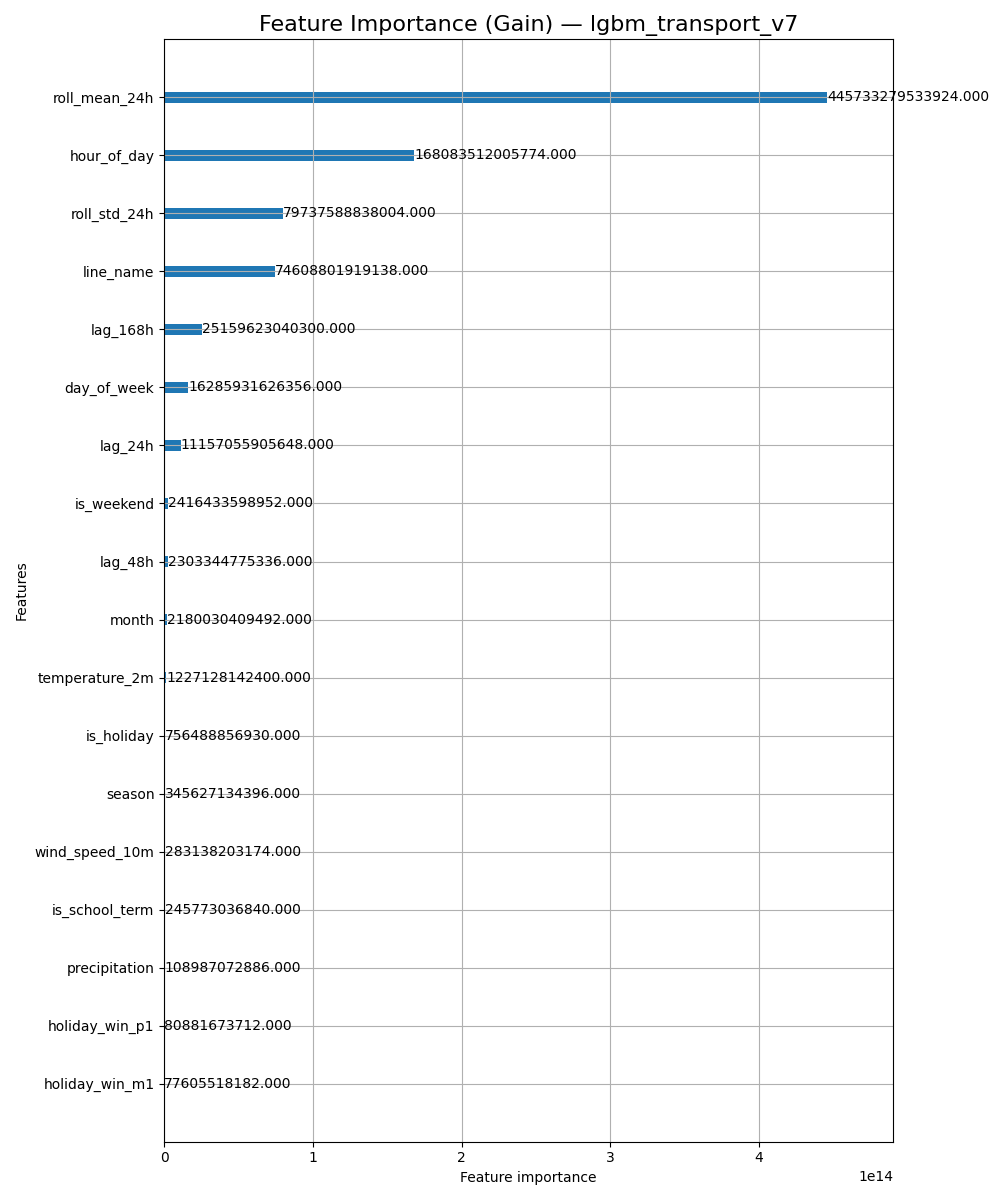
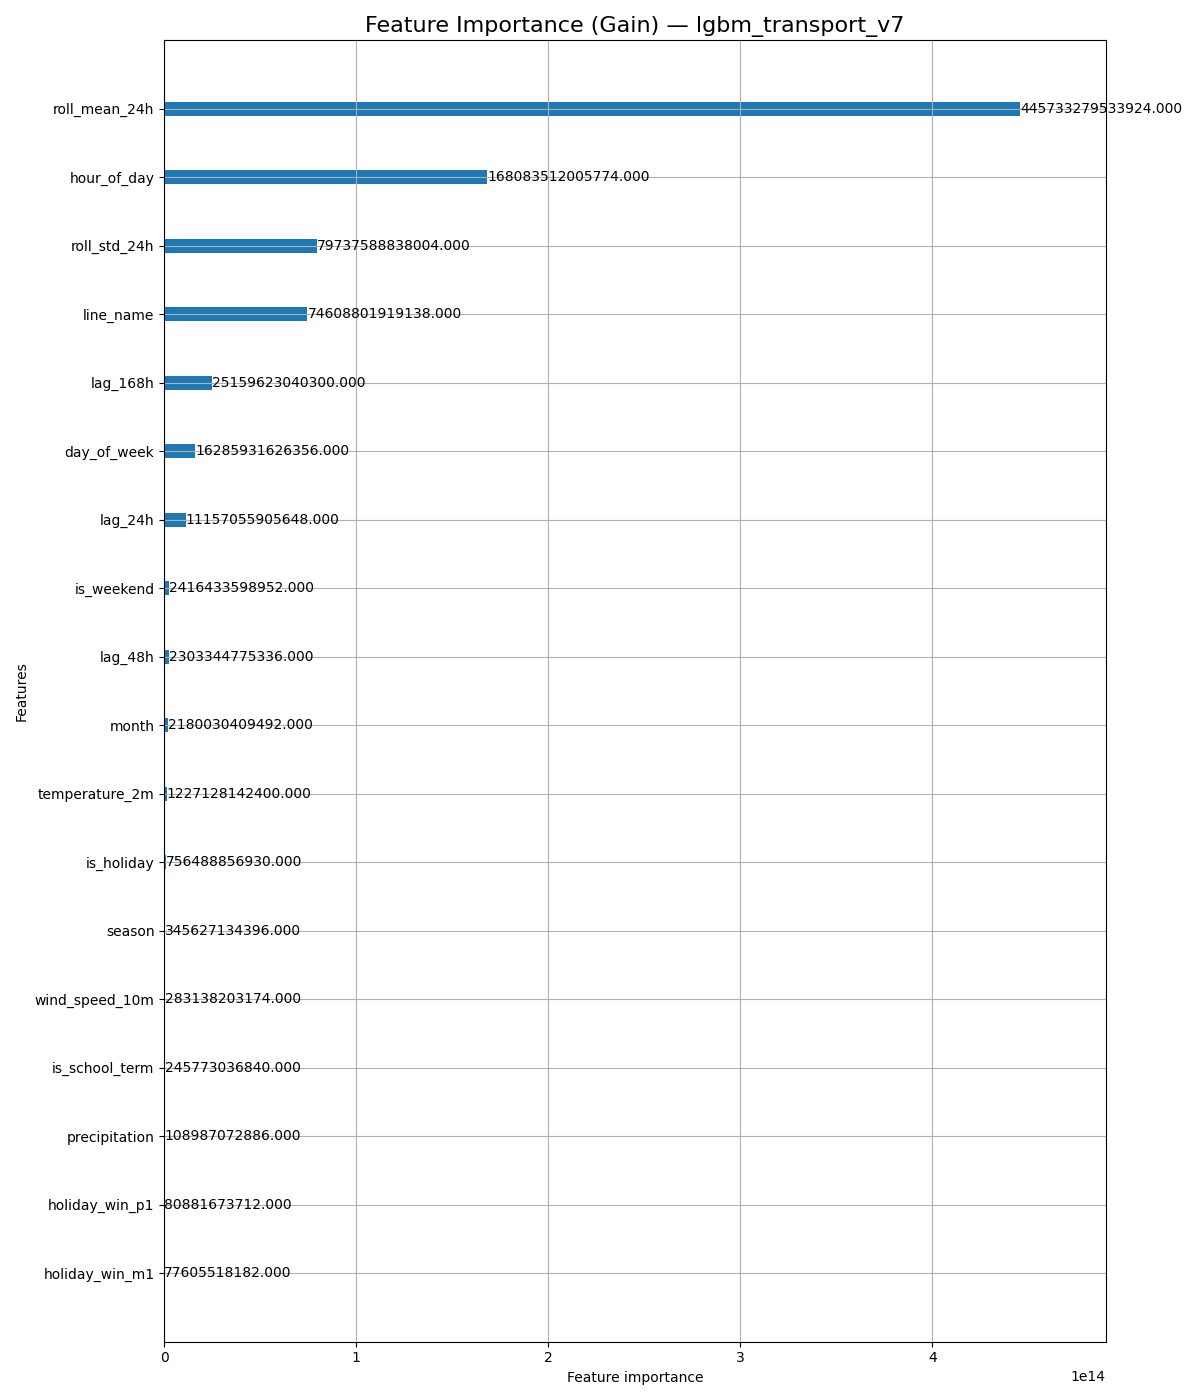
updated model evaluation plots

diff --git a/src/model/eval_model.py b/src/model/eval_model.py
@@ -143,10 +143,12 @@ def load_datasets():
 
 
 def generate_feature_importance(model, model_name, X_val):
-    """Generates and saves a feature importance plot and CSV."""
+    """Generates and saves feature importance plots and CSVs."""
     print(f"  -> Generating feature importance for {model_name}...")
     csv_path = REPORT_DIR / f"feature_importance_{model_name}.csv"
     fig_path = FIG_DIR / f"feature_importance_{model_name}.png"
+    topk_path = FIG_DIR / f"feature_importance_{model_name}_top5.png"
+    tail_path = FIG_DIR / f"feature_importance_{model_name}_after_top5.png"
 
     importance = model.feature_importance(importance_type="gain")
     imp_df = pd.DataFrame(
@@ -154,20 +156,73 @@ def generate_feature_importance(model, model_name, X_val):
     ).sort_values("importance", ascending=False)
     imp_df.to_csv(csv_path, index=False)
 
-    plt.figure(figsize=(10, 12))
-    lgb.plot_importance(model, max_num_features=25, importance_type="gain", figsize=(10, 12))
+    plt.figure(figsize=(12, 14))
+    lgb.plot_importance(model, max_num_features=25, importance_type="gain", figsize=(12, 14))
     plt.title(f"Feature Importance (Gain) — {model_name}", fontsize=16)
     plt.tight_layout()
     plt.savefig(fig_path)
     plt.close()
 
-    return csv_path, fig_path
+    # Top-K and long-tail plots for better readability
+    top_k = 5
+    imp_top = imp_df.head(top_k)
+    imp_tail = imp_df.iloc[top_k:]
+
+    plt.figure(figsize=(10, 8))
+    top_vals = imp_top["importance"][::-1].values
+    top_feats = imp_top["feature"][::-1].values
+    bars = plt.barh(top_feats, top_vals)
+    top_max = float(top_vals.max()) if len(top_vals) else 0.0
+    plt.xlim(0, top_max * 1.1 if top_max > 0 else 1.0)
+    plt.title(
+        f"Top {top_k} Feature Importance (Gain) — {model_name} (max={top_max:.5f})",
+        fontsize=14,
+    )
+    for bar, val in zip(bars, top_vals):
+        plt.text(
+            bar.get_width(),
+            bar.get_y() + bar.get_height() / 2,
+            f"{val:.5f}",
+            va="center",
+            ha="left",
+            fontsize=9,
+        )
+    plt.tight_layout()
+    plt.savefig(topk_path)
+    plt.close()
+
+    plt.figure(figsize=(10, 8))
+    tail_vals = imp_tail["importance"][::-1].values
+    tail_feats = imp_tail["feature"][::-1].values
+    bars = plt.barh(tail_feats, tail_vals)
+    tail_max = float(tail_vals.max()) if len(tail_vals) else 0.0
+    plt.xlim(0, tail_max * 1.1 if tail_max > 0 else 1.0)
+    plt.title(
+        f"After Top {top_k} Feature Importance (Gain) — {model_name} (max={tail_max:.5f})",
+        fontsize=14,
+    )
+    for bar, val in zip(bars, tail_vals):
+        plt.text(
+            bar.get_width(),
+            bar.get_y() + bar.get_height() / 2,
+            f"{val:.5f}",
+            va="center",
+            ha="left",
+            fontsize=9,
+        )
+    plt.tight_layout()
+    plt.savefig(tail_path)
+    plt.close()
+
+    return csv_path, fig_path, topk_path, tail_path
 
 
 def generate_shap(model, model_name, X_val):
-    """Generates and saves a SHAP summary plot."""
+    """Generates and saves SHAP summary plots (top-K and long-tail)."""
     print(f"  -> Generating SHAP summary plot for {model_name}...")
     shap_path = FIG_DIR / f"shap_summary_{model_name}.png"
+    shap_topk_path = FIG_DIR / f"shap_summary_{model_name}_top5.png"
+    shap_tail_path = FIG_DIR / f"shap_summary_{model_name}_after_top5.png"
 
     # SHAP can be slow, so we use a sample of the data
     sample_size = min(5000, len(X_val))
@@ -176,13 +231,52 @@ def generate_shap(model, model_name, X_val):
     explainer = shap.TreeExplainer(model)
     shap_values = explainer.shap_values(sample_X)
 
-    plt.figure()
+    plt.figure(figsize=(12, 12))
     shap.summary_plot(shap_values, sample_X, max_display=25, show=False)
+    ax = plt.gca()
+    xmin, xmax = ax.get_xlim()
+    tick_start = int(np.floor(xmin / 2500.0) * 2500)
+    tick_end = int(np.ceil(xmax / 2500.0) * 2500)
+    ax.set_xticks(np.arange(tick_start, tick_end + 1, 2500))
     plt.tight_layout()
     plt.savefig(shap_path)
     plt.close()
 
-    return shap_path
+    # Top-K beeswarm for clear directionality
+    top_k = 5
+    plt.figure(figsize=(12, 10))
+    shap.summary_plot(shap_values, sample_X, max_display=top_k, show=False)
+    ax = plt.gca()
+    xmin, xmax = ax.get_xlim()
+    tick_start = int(np.floor(xmin / 5000.0) * 5000)
+    tick_end = int(np.ceil(xmax / 5000.0) * 5000)
+    ax.set_xticks(np.arange(tick_start, tick_end + 1, 5000))
+    plt.tight_layout()
+    plt.savefig(shap_topk_path)
+    plt.close()
+
+    # After top-K beeswarm: drop top-K features and tighten x-limits by quantile
+    mean_abs = np.abs(shap_values).mean(axis=0)
+    top_idx = np.argsort(mean_abs)[::-1][:top_k]
+    keep_idx = [i for i in range(sample_X.shape[1]) if i not in set(top_idx)]
+    if keep_idx:
+        shap_tail = shap_values[:, keep_idx]
+        X_tail = sample_X.iloc[:, keep_idx]
+        q_low, q_high = np.quantile(shap_tail, [0.01, 0.99])
+        plt.figure(figsize=(12, 10))
+        shap.summary_plot(shap_tail, X_tail, max_display=min(25, X_tail.shape[1]), show=False)
+        ax = plt.gca()
+        ax.set_xlim(float(q_low), float(q_high))
+        tick_start = int(np.floor(q_low / 500.0) * 500)
+        tick_end = int(np.ceil(q_high / 500.0) * 500)
+        ax.set_xticks(np.arange(tick_start, tick_end + 1, 500))
+        plt.tight_layout()
+        plt.savefig(shap_tail_path)
+        plt.close()
+    else:
+        shap_tail_path = None
+
+    return shap_path, shap_topk_path, shap_tail_path
 
 
 # ==============================================================================
@@ -272,12 +366,17 @@ def evaluate_model(model_name, model, train_df, val_df, cfg):
     metrics["improvement_over_linehour"] = improvement(base_mae_linehour, metrics["mae"])
 
     # --- 5. Generate and Save Artifacts ---
-    fi_csv, fi_plot = generate_feature_importance(model, model_name, X_val)
-    shap_plot = generate_shap(model, model_name, X_val)
+    fi_csv, fi_plot, fi_topk, fi_tail = generate_feature_importance(model, model_name, X_val)
+    shap_plot, shap_topk, shap_tail = generate_shap(model, model_name, X_val)
 
     metrics["feature_importance_csv"] = str(fi_csv)
     metrics["feature_importance_plot"] = str(fi_plot)
+    metrics["feature_importance_top5_plot"] = str(fi_topk)
+    metrics["feature_importance_after_top5_plot"] = str(fi_tail)
     metrics["shap_plot"] = str(shap_plot)
+    metrics["shap_top5_plot"] = str(shap_topk)
+    if shap_tail is not None:
+        metrics["shap_after_top5_plot"] = str(shap_tail)
 
     # Save the detailed metrics for this model
     metrics_json_path = REPORT_DIR / f"metrics_{model_name}.json"

diff --git a/src/model/test_model.py b/src/model/test_model.py
@@ -43,6 +43,16 @@ def smape(y_true, y_pred):
     denominator = (np.abs(y_true) + np.abs(y_pred)) / 2.0
     return float(np.mean(numerator / (denominator + 1e-8)))
 
+def mape(y_true, y_pred):
+    """Calculates Mean Absolute Percentage Error, excluding zero targets."""
+    y_true = np.asarray(y_true)
+    y_pred = np.asarray(y_pred)
+    mask = y_true != 0
+    if not np.any(mask):
+        return np.nan, 0
+    pct_errors = np.abs((y_true[mask] - y_pred[mask]) / y_true[mask])
+    return float(np.mean(pct_errors)), int(mask.sum())
+
 def improvement(base, model):
     """Calculates the percentage improvement of a model over a baseline."""
     if base == 0:
@@ -135,6 +145,7 @@ def main(version: str):
     nmae_value = mae_value / y_test_mean if y_test_mean > 0 else np.nan
     accuracy_value = 1.0 - nmae_value if not np.isnan(nmae_value) else np.nan
     
+    mape_value, mape_count = mape(y_test, y_pred)
     report = {
         "model_name": model_name,
         "dataset": "Unseen Test Set",
@@ -144,6 +155,9 @@ def main(version: str):
         "mae": mae_value,
         "rmse": rmse(y_test, y_pred),
         "smape": smape(y_test, y_pred),
+        "mape": mape_value,
+        "mape_samples": mape_count,
+        "mape_coverage_pct": float(mape_count / len(y_test) * 100) if len(y_test) else 0.0,
         "nmae": nmae_value,
         "volume_weighted_accuracy": accuracy_value,
         "test_set_mean_volume": y_test_mean,
@@ -526,6 +540,7 @@ def main(version: str):
     print(f"  MAE: {report['mae']:.2f}")
     print(f"  RMSE: {report['rmse']:.2f}")
     print(f"  SMAPE: {report['smape']:.4f}")
+    print(f"  MAPE: {report['mape']:.4f} (coverage {report['mape_coverage_pct']:.2f}%)")
     print(f"  NMAE (Normalized MAE): {report['nmae']:.4f} ({report['nmae']*100:.2f}%)")
     print(f"  Volume-Weighted Accuracy: {report['volume_weighted_accuracy']:.4f} ({report['volume_weighted_accuracy']*100:.2f}%)")
     print(f"\n  Baseline Comparison:")
@@ -674,6 +689,16 @@ A percentage-based metric that normalizes errors symmetrically. Can appear high 
 
 * **Context:**  
   While the SMAPE ({report['smape']*100:.1f}%) might look high due to low-volume night hours, the Volume-Weighted Accuracy ({report['volume_weighted_accuracy']*100:.1f}%) confirms the system is reliable for high-capacity planning.
+
+### MAPE (Mean Absolute Percentage Error)
+**What is it?**  
+Per-sample percentage error, excluding zero-demand samples.
+
+* **Our Model's Result:**  
+  **{report['mape']*100:.1f}%** (Coverage: {report['mape_coverage_pct']:.1f}% of samples)
+
+* **Comparison with NMAE:**  
+  NMAE uses the global mean as the scale, while MAPE scales each sample by its own true value, which can inflate errors during low-volume hours.
 
 ---
 

diff --git a/reports/test_explanation_lgbm_transport_v7.md b/reports/test_explanation_lgbm_transport_v7.md
@@ -1,6 +1,6 @@
 # 📊 Model Performance & Methodology Report
 **Model Version:** lgbm_transport_v7  
-**Date:** 2026-01-11 22:13:40
+**Date:** 2026-01-12 00:26:55
 
 ---
 
@@ -13,7 +13,7 @@ This means that relative to the total passenger volume, our average error margin
 - **Model Complexity:** 2000 trees, 18 features
 - **Improvement over Lag-24h Baseline:** 76.1% better than naive lag-24h approach
 - **Improvement over Lag-168h Baseline:** 74.6% better than naive lag-168h approach
-- **Prediction Speed:** 4.634 seconds for entire test set
+- **Prediction Speed:** 5.063 seconds for entire test set
 
 ---
 
@@ -99,6 +99,16 @@ A percentage-based metric that normalizes errors symmetrically. Can appear high 
 
 * **Context:**  
   While the SMAPE (44.8%) might look high due to low-volume night hours, the Volume-Weighted Accuracy (85.0%) confirms the system is reliable for high-capacity planning.
+
+### MAPE (Mean Absolute Percentage Error)
+**What is it?**  
+Per-sample percentage error, excluding zero-demand samples.
+
+* **Our Model's Result:**  
+  **130.2%** (Coverage: 100.0% of samples)
+
+* **Comparison with NMAE:**  
+  NMAE uses the global mean as the scale, while MAPE scales each sample by its own true value, which can inflate errors during low-volume hours.
 
 ---
 
@@ -439,7 +449,7 @@ Against the weekly repeat baseline (Lag-168h), the model still achieves a **74.6
 ### Thesis Highlights:
 - **Multi-modal coverage:** Model successfully handles 6 different transport modes
 - **Volume scalability:** Consistent NMAE across traffic segments shows robust generalization
-- **Production-ready:** 4.634s inference time for 537,198 samples
+- **Production-ready:** 5.063s inference time for 537,198 samples
 
 **Tested on:** 537,198 samples  
-**Prediction Time:** 4.634 seconds
+**Prediction Time:** 5.063 seconds
